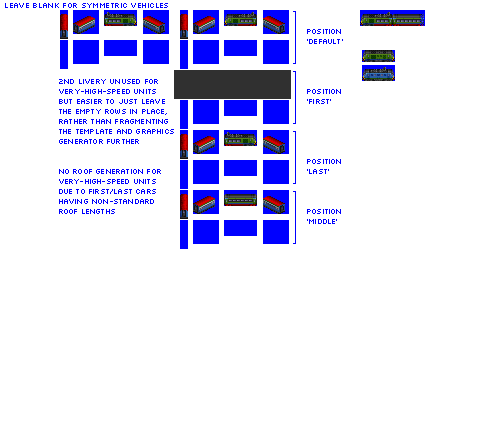
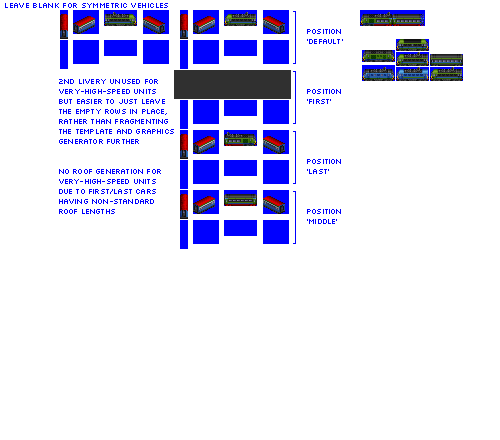
Change: WIP on high speed pax units, including removal of Landlash and re-spacing of generations

Changed region(s): [[0.78, 0.0886, 0.93, 0.2068], [0.45, 0.0295, 0.54, 0.0591], [0.21, 0.0295, 0.27, 0.0591]]

diff --git a/src/rosters/pony.py b/src/rosters/pony.py
@@ -36,8 +36,6 @@ from vehicles import hercules
 from vehicles import hurly_burly
 from vehicles import jupiter
 from vehicles import kelpie
-from vehicles import landlash_cab
-from vehicles import landlash_middle
 from vehicles import lark
 from vehicles import lemon
 from vehicles import little_bear
@@ -89,7 +87,7 @@ roster = Roster(id = 'pony',
                 # speeds roughly same as RH trucks of same era + 5mph or so, and a bit higher at the top end (back and forth on this many times eh?),
                 speeds = {'RAIL': {'standard': [45, 45, 60, 75, 87, 100], # gen 5 and 6 forced down by design, really fast freight is imbalanced
                                    'express': [60, 75, 90, 105, 120, 135], # 135 is for a reason, can't remember what :P
-                                   'very_high_speed': [0, 0, 0, 140, 170, 200]},
+                                   'very_high_speed': [0, 0, 0, 0, 140, 200]},
                           'METRO': {'standard': [45, 55, 65]}, # no express for metro in Pony
                           'NG': {'standard': [35, 35, 45, 55], # NG standard/express all same in Pony
                                  'express': [35, 35, 45, 55]}},
@@ -168,8 +166,6 @@ roster = Roster(id = 'pony',
                            # brit high speed pax
                            helm_wind_cab,
                            helm_wind_middle,
-                           landlash_cab,
-                           landlash_middle,
                            brenner_cab,
                            brenner_middle,
                            # metro

diff --git a/src/vehicles/helm_wind_cab.py b/src/vehicles/helm_wind_cab.py
@@ -7,18 +7,15 @@ def main(roster):
                                                      base_numeric_id=3060,
                                                      name='Helm Wind - Cab',
                                                      role='pax_high_speed',
-                                                     power=1200,
+                                                     power=1600,
                                                      dual_headed=True,
-                                                     gen=4,
-                                                     intro_date_offset=20)  # introduce later than gen epoch by design
-
-    # 4 units (2-tiles) because building these is annoying if the units are too small?
-    # or 2 units (1-tile) to make any integer length?
+                                                     gen=5,
+                                                     intro_date_offset=-3)  # introduce earlier than gen epoch by design
 
     consist.add_unit(type=ElectricHighSpeedPaxUnit,
                      weight=31,
                      vehicle_length=8,
-                     capacity=40,
+                     # no pax capacity on Helm Wind cabs
                      spriterow_num=0,
                      chassis='4_axle_solid_express_32px')
 

diff --git a/src/vehicles/brenner_cab.py b/src/vehicles/brenner_cab.py
@@ -9,14 +9,13 @@ def main(roster):
                                                      role='pax_high_speed',
                                                      dual_headed=True,
                                                      power=2600,
-                                                     gen=6)  # no intro date offset for this unit
-
-    # 4 units (2-tiles) because building these is annoying if the units are too small?
-    # or 2 units (1-tile) to make any integer length?
+                                                     gen=6,
+                                                     intro_date_offset=-3)  # introduce earlier than gen epoch by design
 
     consist.add_unit(type=ElectricHighSpeedPaxUnit,
                      weight=55,
                      vehicle_length=8,
+                     # add pax capacity on Brenner cabs
                      capacity=40,
                      spriterow_num=0,
                      chassis='4_axle_solid_express_32px')

diff --git a/src/vehicles/helm_wind_middle.py b/src/vehicles/helm_wind_middle.py
@@ -9,11 +9,8 @@ def main(roster):
                                                         role='pax_high_speed',
                                                         power=0,  # set power 0, when attached to correct cab, cab power will be increased
                                                         pantograph_type='z-shaped-single',
-                                                        gen=4,
-                                                        intro_date_offset=20)  # introduce later than gen epoch by design
-
-    # 4 units (2-tiles) because building these is annoying if the units are too small?
-    # or 2 units (1-tile) to make any integer length?
+                                                        gen=5,
+                                                        intro_date_offset=-3)  # introduce earlier than gen epoch by design
 
     consist.add_unit(type=ElectricHighSpeedPaxUnit,
                      weight=31,

diff --git a/src/vehicles/brenner_middle.py b/src/vehicles/brenner_middle.py
@@ -8,10 +8,8 @@ def main(roster):
                                                         name='Brenner - Middle',
                                                         role='pax_high_speed',
                                                         power=0,  # set power 0, when attached to correct cab, cab power will be increased
-                                                        gen=6)  # no intro date offset for this unit
-
-    # 4 units (2-tiles) because building these is annoying if the units are too small?
-    # or 2 units (1-tile) to make any integer length?
+                                                        gen=6,
+                                                        intro_date_offset=-3)  # introduce earlier than gen epoch by design
 
     consist.add_unit(type=ElectricHighSpeedPaxUnit,
                      weight=55,

diff --git a/src/vehicles/landlash_cab.py b/src/vehicles/landlash_cab.py
@@ -1,5 +1,6 @@
 from train import PassengerVeryHighSpeedCabEngineConsist, ElectricHighSpeedPaxUnit
 
+# deprecated, only 2 generations of high speed needed for Brit roster
 
 def main(roster):
     consist = PassengerVeryHighSpeedCabEngineConsist(roster=roster,
@@ -9,7 +10,7 @@ def main(roster):
                                                      role='pax_high_speed',
                                                      dual_headed=True,
                                                      power=1900,
-                                                     gen=5,
+                                                     gen=6,
                                                      intro_date_offset=10)  # introduce later than gen epoch by design
 
     consist.add_unit(type=ElectricHighSpeedPaxUnit,

diff --git a/src/vehicles/landlash_middle.py b/src/vehicles/landlash_middle.py
@@ -1,5 +1,6 @@
 from train import PassengerVeryHighSpeedMiddleEngineConsist, ElectricHighSpeedPaxUnit
 
+# deprecated, only 2 generations of high speed needed for Brit roster
 
 def main(roster):
     consist = PassengerVeryHighSpeedMiddleEngineConsist(roster=roster,
